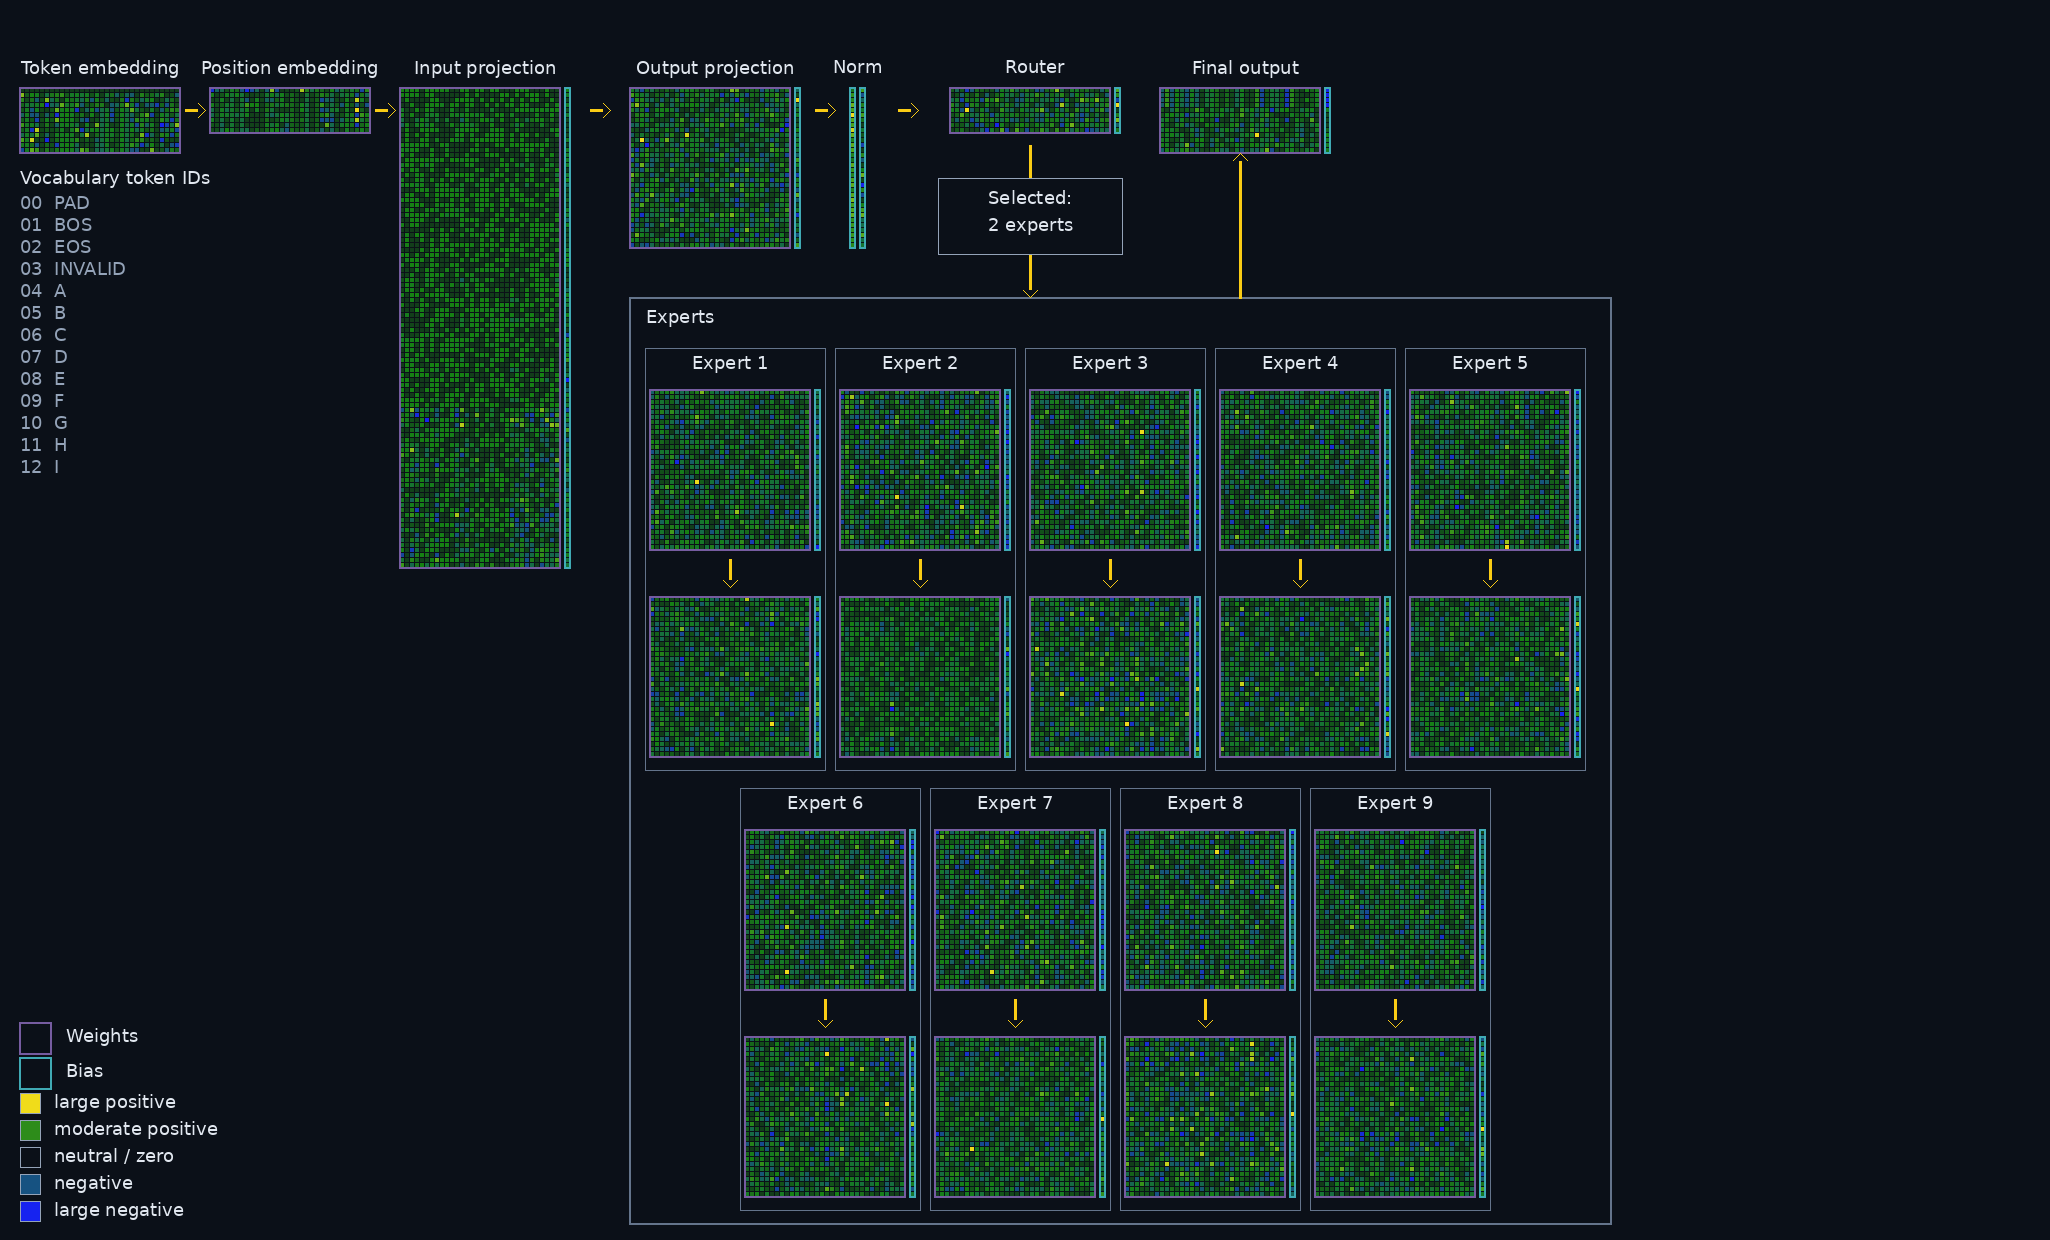
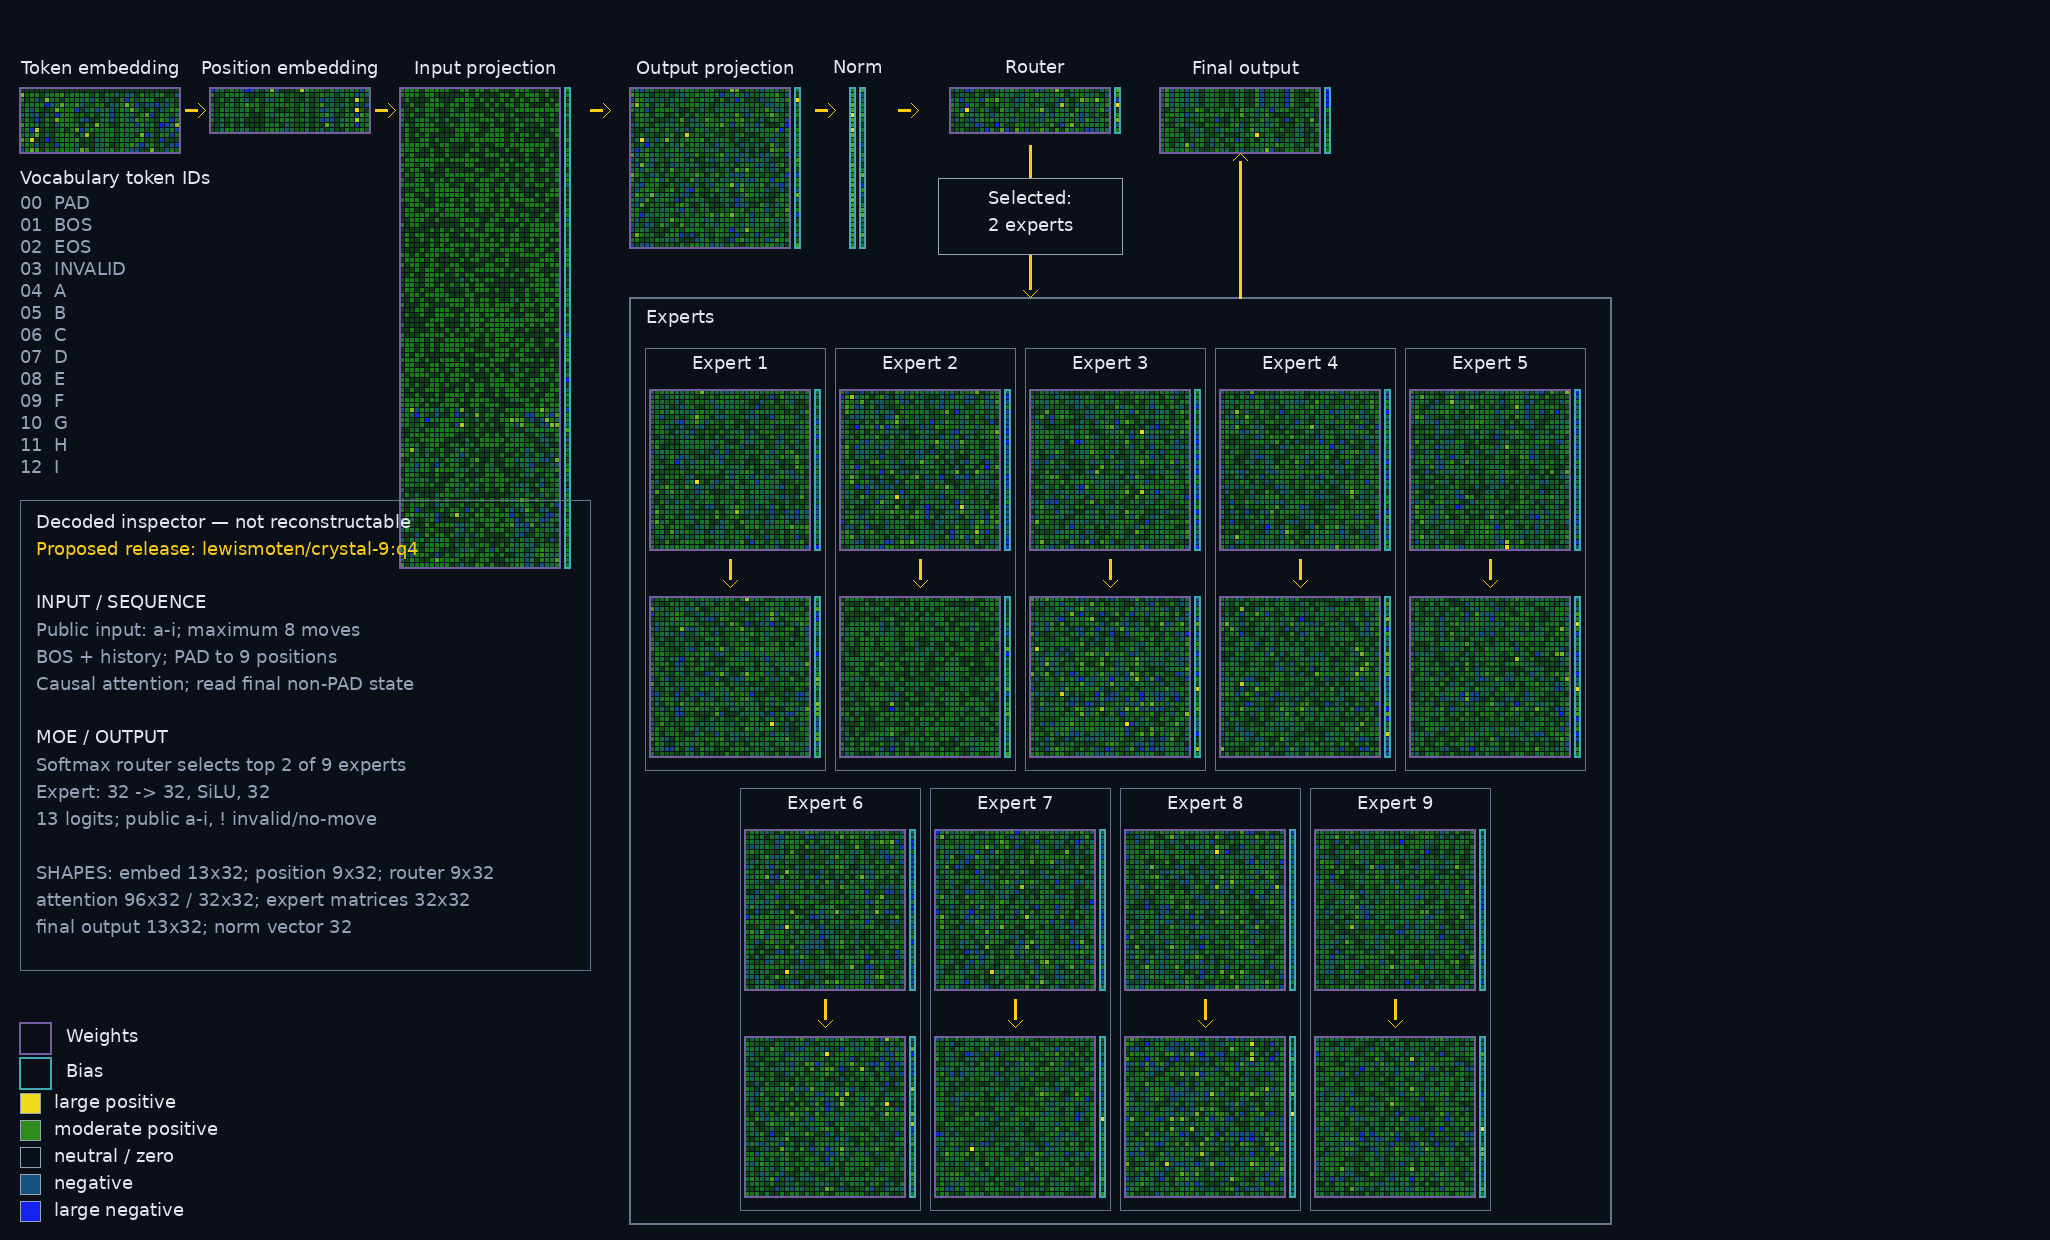
Explain tensor inspector execution contract

Changed region(s): [[0.0, 0.3984, 0.2185, 0.5516], [0.0, 0.5823, 0.1873, 0.6742], [0.0, 0.7048, 0.2185, 0.7661]]

diff --git a/tools/tensor_inspector.py b/tools/tensor_inspector.py
@@ -175,6 +175,33 @@ def _render_vocabulary(rgb: bytearray, width: int, x: int, y: int) -> None:
         _text(rgb, width, x, y + 26 + token_id * 22, f"{token_id:02d}  {token_name}", _MUTED)
 
 
+def _render_execution_contract(rgb: bytearray, width: int, x: int, y: int) -> None:
+    """Render the runtime facts needed to interpret this derived view honestly."""
+    panel_width, panel_height = 570, 470
+    _rectangle(rgb, width, x, y, panel_width, panel_height, _EXPERT_BORDER, 1)
+    lines = (
+        ("Decoded inspector — not reconstructable", _LABEL),
+        ("Proposed release: lewismoten/crystal-9:q4", _FLOW),
+        ("", _LABEL),
+        ("INPUT / SEQUENCE", _LABEL),
+        ("Public input: a-i; maximum 8 moves", _MUTED),
+        ("BOS + history; PAD to 9 positions", _MUTED),
+        ("Causal attention; read final non-PAD state", _MUTED),
+        ("", _LABEL),
+        ("MOE / OUTPUT", _LABEL),
+        ("Softmax router selects top 2 of 9 experts", _MUTED),
+        ("Expert: 32 -> 32, SiLU, 32", _MUTED),
+        ("13 logits; public a-i, ! invalid/no-move", _MUTED),
+        ("", _LABEL),
+        ("SHAPES: embed 13x32; position 9x32; router 9x32", _MUTED),
+        ("attention 96x32 / 32x32; expert matrices 32x32", _MUTED),
+        ("final output 13x32; norm vector 32", _MUTED),
+    )
+    for index, (line, color) in enumerate(lines):
+        if line:
+            _text(rgb, width, x + 16, y + 14 + index * 27, line, color)
+
+
 def render_checkpoint_inspector(source: Path) -> tuple[bytes, dict[str, object]]:
     """Create a derived, architecture-flow map; it is not a byte transport artifact."""
     state = _checkpoint_state(source)
@@ -195,6 +222,7 @@ def render_checkpoint_inspector(source: Path) -> tuple[bytes, dict[str, object]]
     _render_pair(rgb, width, state, "router.weight", "router.bias", "Router", 950, top_y)
     _render_pair(rgb, width, state, "output.weight", "output.bias", "Final output", 1160, top_y)
     _render_vocabulary(rgb, width, 20, 170)
+    _render_execution_contract(rgb, width, 20, 500)
 
     # The position table is an explicit branch: small flow arrows enter and leave its matrix at the shared tensor centerline.
     _arrow(rgb, width, 185, flow_y, 205, flow_y)
@@ -248,9 +276,19 @@ def render_checkpoint_inspector(source: Path) -> tuple[bytes, dict[str, object]]
         _text(rgb, width, legend_x + 34, y + 1, label, _LABEL)
 
     metadata = {
-        "format": "crystal-9-tensor-inspector-v18", "source": source.name,
+        "format": "crystal-9-tensor-inspector-v19", "source": source.name,
         "source_sha256": hashlib.sha256(source.read_bytes()).hexdigest(), "tensor_count": len(state),
-        "normalization": "per-tensor symmetric max-absolute", "layout": "architecture-flow-v18",
+        "representation": "decoded inspector; not reconstructable",
+        "proposed_deployment_tag": "lewismoten/crystal-9:q4",
+        "execution_contract": {
+            "public_input": "a-i; maximum 8 moves",
+            "sequence": "BOS + history; PAD to 9 positions",
+            "attention": "causal mask; read final non-PAD state",
+            "routing": "softmax router; top 2 of 9 experts",
+            "expert": "32 -> 32 SiLU -> 32",
+            "public_output": "a-i; ! is invalid/no-move sentinel",
+        },
+        "normalization": "per-tensor symmetric max-absolute", "layout": "architecture-flow-v19",
         "bias_alignment": "vertical output-row axis", "sections": ["inputs", "attention", "norm_router", "experts", "output"],
         "legend": {"WEIGHTS": "matrix; rows are output features", "BIAS": "bias column; one value per output row", "B": "bias column; one value per output row"},
         "expert_layout": "five Expert boxes over four Expert boxes; each contains its first and second layer",

diff --git a/tests/test_tensor_inspector.py b/tests/test_tensor_inspector.py
@@ -15,7 +15,7 @@ def test_checkpoint_inspector_renders_actual_tensor_inventory_as_png():
     assert metadata["tensors"]["attention.in_proj_weight"]["shape"] == [96, 32]
     assert metadata["tensors"]["experts.0.0.weight"]["shape"] == [32, 32]
     assert metadata["normalization"] == "per-tensor symmetric max-absolute"
-    assert metadata["layout"] == "architecture-flow-v18"
+    assert metadata["layout"] == "architecture-flow-v19"
     assert metadata["bias_alignment"] == "vertical output-row axis"
     assert metadata["sections"][-2:] == ["experts", "output"]
     assert metadata["legend"]["B"] == "bias column; one value per output row"
@@ -32,3 +32,13 @@ def test_checkpoint_inspector_renders_actual_tensor_inventory_as_png():
     assert metadata["border_legend"] == {"dim purple": "weight matrix", "dim cyan": "bias vector"}
     assert metadata["value_legend"] == {"yellow": "large positive", "green": "moderate positive", "black": "neutral / zero", "blue": "negative", "bright blue": "large negative"}
     assert metadata["experts_outline"] == "slate gray"
+    assert metadata["representation"] == "decoded inspector; not reconstructable"
+    assert metadata["proposed_deployment_tag"] == "lewismoten/crystal-9:q4"
+    assert metadata["execution_contract"] == {
+        "public_input": "a-i; maximum 8 moves",
+        "sequence": "BOS + history; PAD to 9 positions",
+        "attention": "causal mask; read final non-PAD state",
+        "routing": "softmax router; top 2 of 9 experts",
+        "expert": "32 -> 32 SiLU -> 32",
+        "public_output": "a-i; ! is invalid/no-move sentinel",
+    }

diff --git a/tools/export_tensor_inspectors.py b/tools/export_tensor_inspectors.py
@@ -31,7 +31,7 @@ def main() -> None:
             "tensor_count": metadata["tensor_count"], "width": metadata["width"], "height": metadata["height"],
             "normalization": metadata["normalization"], "derived": True,
         })
-    (OUTPUT.parent / "inspectors.json").write_text(json.dumps({"format": "crystal-9-tensor-inspector-v18", "inspectors": inspectors}, indent=2) + "\n")
+    (OUTPUT.parent / "inspectors.json").write_text(json.dumps({"format": "crystal-9-tensor-inspector-v19", "inspectors": inspectors}, indent=2) + "\n")
 
 
 if __name__ == "__main__":
